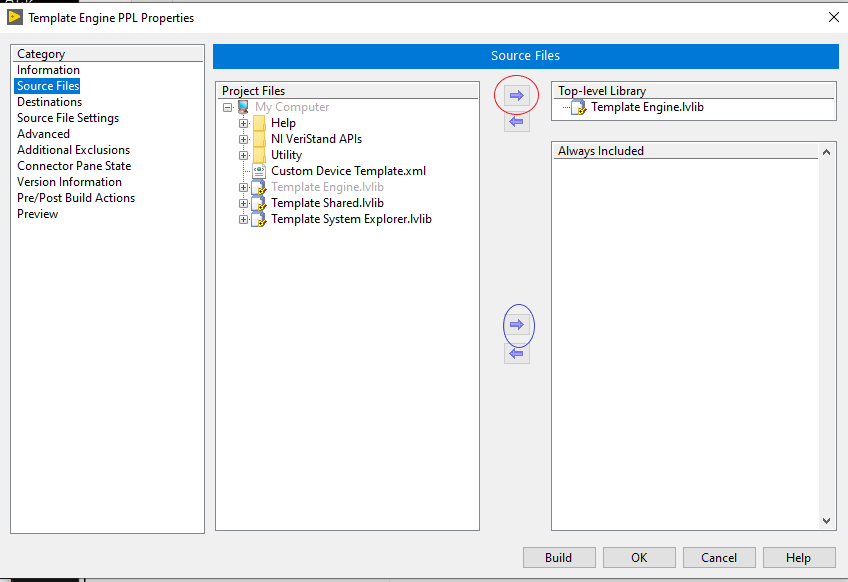
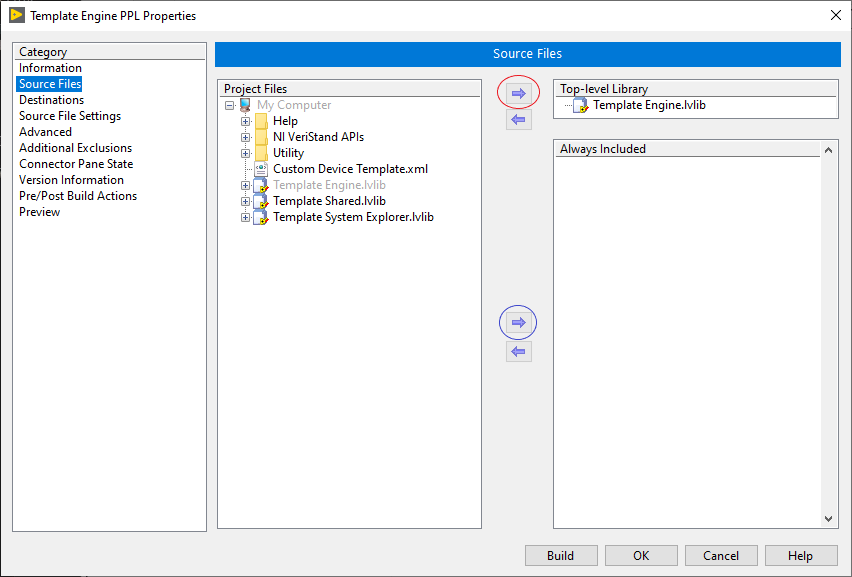
Changes

Changed region(s): [[0.0, 0.0, 1.0, 1.0], [0.5825, 0.5303, 0.6439, 0.6239]]

diff --git a/docs/Migrating_LLB_to_a_PPL_based_Custom_Device.md b/docs/Migrating_LLB_to_a_PPL_based_Custom_Device.md
@@ -1,35 +1,34 @@
-## Migrating a Custom Device from LLB to PPL
+## Migrating from LLB to PPL
 
-First introduced with LabVIEW 2010, a packed project library is a compiled .lvlib that contains all of the .lvlib’s VIs and allows the user to call the public VIs in a manner that is identical to the use of the original .lvlib. Since 
-LabVIEW 2017 you can compile a packed project library to be also used with newer versions of LabVIEW. This option is enabled by default, but if you want to change that setting, choose "Advanced" in the sidebar and disable the option "Allow future versions of LabVIEW" to load this packed library. 
-Using PPLs for packaging VeriStand Custom Devices does not eliminate the usage of LLBs for the same purpose. A developer does not have to chose between using one or another. The two options can coexist as part of the same project. A developer can keep the existing LLB build specifications and simply add to the project the additional PPL ones. Of course, it might be necessary to modify the CD source code in order to be able to support both options - this will be discussed below. The XML configuration file would have to be modified as well to reflect the new loading paths for the CD elements. 
+First introduced with LabVIEW 2010, a packed project library (PPL) is a compiled LabVIEW project library (.lvlib) that contains all of the .project library VIs and allows the user to call the public VIs in a manner that is identical to the use of the original .project library. Since LabVIEW 2017 you can compile a packed project library to be also used with newer versions of LabVIEW. This option is enabled by default, but if you want to change that setting, choose "Advanced" in the sidebar and disable the option "Allow future versions of LabVIEW" to load this packed library. 
 
-### Advantages of using PPL based Custom Devices
+Using PPLs for packaging VeriStand Custom Devices does not eliminate the usage of LLBs for the same purpose. A developer does not have to chose between using one or another. The two options can coexist as part of the same project. A developer can keep the existing LLB build specifications and simply add to the project the additional PPL ones. Of course, it might be necessary to modify the CD source code in order to be able to support both options. The XML configuration file would have to be modified as well to reflect the new loading paths for the CD elements.
+
+### Benefits for using PPL based Custom Devices
 
 Packed Project Libraries (PPL) provide name spacing for all of its contained items and preserve the file hierarchy of the source project library. These features result in several potential benefits for a Custom Device packed in a PPL:
-* Even if two given custom devices would reference the same file (VI) dependency, by packaging them into PPLs, each custom device would receive its own copy of the required dependency. This would be compiled and included in its respective PPL via name spacing for the contained items, the PPLs would also make sure that load-time conflicts are avoided.
+* If two given custom devices would reference the same VI dependency, by packaging them into PPLs, each custom device would receive its own copy of the required dependency. This would be compiled and included in its respective PPL via namespacing for the contained items. The PPLs would also make sure that load-time conflicts are avoided.
 
 * Since PPLs preserve the file hierarchy of the source project library, that solves the issue of internal naming conflicts, which is specific to LLBs (which causes compile-time warnings and extra files to be generated). Multiple LabVIEW project libraries can be included in the same PPL, even if those contain items with the same name. This is the same reason why LabVIEW classes could now be easier used when building VeriStand Custom Devices.
 
-* Much smaller disk footprint, which is important for a lot of our customers, since it would have a large impact on the deployment time (as you can see for the FPGA Addon below). 
+* Much smaller disk footprint, which would improve the deployment time (as you can see for the FPGA Addon below). . 
 
 ![](images/Disk_Footprint.jpg)
-### Drawbacks of using Packed Project Libraries with VeriStand Custom Devices
+### Drawbacks of using PPL based Custom Devices
 
-* Probably one of the main issues is that inside the PPL, relative paths for the items are maintained starting from the most common directory on the disk. This can be confusing for LabVIEW developers that would expect the relative paths to start from the root of the library and follow the original project structure. Additionally, it also means that changing the organization, or location on the disk, of the items that are included in the library build specification could in turn affect the relative paths of the items in the packed library. In time, this behavior could prove to be quite a challenge (or at least a nuisance), since changes within the custom device folder structure could affect the organization of the items in the generated packed library. In turn, this would create the need to constantly update the configuration XML file with the new paths. The long-term solution to this issue would be to create a post-build step that could perform these operations automatically: i.e. parse the configuration XML file and identify the items with "path" properties. For each item, find the corresponding element within the generated packed library and update the configuration file. Once the update is complete (and with no errors), copy the resulting files to the VeriStand Custom Device directory. Certain LabVIEW features are not compatible with packed project libraries. For instance, malleable VIs (VIMs) cannot be included in a PPL and exported as public members, they can only be set with private scope. Implicitly, if a custom device code makes use of malleable VIs, packing it inside a PPL would require some changes (to either the code or the project level) to maintain compatibility.
+* One of the main drawback is that inside the PPL, relative paths for the items are maintained starting from the most common directory on disk. This can be confusing for LabVIEW developers that would expect the relative paths to start from the root of the library and follow the original project structure. Additionally, it also means that changing the organization, or location on disk, of the items that are included in the library build specification could in turn affect the relative paths of the items in the packed library. In time, this behavior could prove to be quite a challenge (or at least a nuisance), since changes within the custom device folder structure could affect the organization of the items in the generated packed library. In turn, this would create the need to constantly update the configuration XML file with the new paths. The long-term solution to this issue would be to create a post-build step that could perform these operations automatically: i.e. parse the configuration XML file and identify the items with "path" properties. For each item, find the corresponding element within the generated packed library and update the configuration file. Once the update is complete (and with no errors), copy the resulting files to the VeriStand Custom Device directory.
+* Certain LabVIEW features are not compatible with packed project libraries. For instance, malleable VIs (VIMs) cannot be included in a PPL and exported as public members, they can only be set with private scope. Implicitly, if a custom device code makes use of malleable VIs, packing it inside a PPL would require some changes (to either the code or the project level) to maintain compatibility.
 
-* Certain VeriStand Custom Device APIs (like the NI VeriStand Custom Device Channel APIs) are using the Global Data References 
+* Certain VeriStand Custom Device APIs (like the NI VeriStand Custom Device Channel APIs) are using Global Data References. 
 
-* Mutation code might be required for individual custom devices if custom data types (for instance, clusters) are used internally and stored within the System Definition file, if we want to ensure backwards compatibility. 
 ### Implementing a PPL based Custom Device
 
-For creating a new packed project library based Custom Device you will begin by building a template project. You can find the necessary template here: [VeriStand Custom Device Wizard](https://github.com/ni/niveristand-custom-device-wizard/releases). The new template will be available starting with VeriStand 2021 (Custom Device Wizard LabView 2021 support 21.0). 
-### Migrating an existing Custom Device
+For creating a new packed project library based Custom Device you can start from a Custom Device template project. You can choose one for your application from the [VeriStand Custom Device Wizard](https://github.com/ni/niveristand-custom-device-wizard/releases). 
+### Migrating to a PPL based Custom Device from an LLB one
 
-First step for migrating an existing Custom Device is to make some changes regarding the global data references if you use certain VeriStand Custom Device APIs.
-For performance reasons, channel values are stored in VeriStand as a single block of data - i.e. as an array of double values. To be able to access a value element corresponding to a given channel, VeriStand is using Global Variables to pass pointer information, from the engine, to the calling APIs. While this works well for custom devices packed in LLBs, the same does not apply for packed project libraries, due to namespacing. Essentially, when compiling a PPL, a separate (namespaced) copy of the global variable is created and included with it. In turn, it cannot be used anymore for data transfer between the VeriStand engine and the running custom device and would result in a runtime error. Custom devices that do not use this kind of APIs are not affected by this issue. For instance, mainly Inline custom devices ( and derivatives of this type) are affected, since custom devices of Async type are using RT FIFOs to access channel values.
-To be able to mitigate this problem, we need to implement an  alternative way to access the values within these global variables. 
-This code needs to be incapsulated within a single VI ("Initialize Global Variables"). It has to be called only once from within the target custom device and, for an Inline type, it would have to be called specifically in the "Read Data from HW" state of the "RT Driver" due to the specifics of the initialization of the VeriStand engine.
+If you use certain VeriStand Custom Device APIs, which is the case for an inline custom device, the first step to migrate an existing Custom Device would include changes regarding how the global data references are initialized.
+For performance reasons, channel values are stored in VeriStand as a single block of data - i.e. as an array of double values. To be able to access a value element corresponding to a given channel, VeriStand is using Global Variables to pass pointer information, from the engine, to the calling APIs. While this works well for custom devices packed in LLBs, the same does not apply for packed project libraries, due to namespacing. Essentially, when compiling a PPL, a separate (namespaced) copy of the global variable is created and included with it. In turn, it cannot be used anymore for data transfer between the VeriStand engine and the running custom device and would result in a runtime error. To be able to mitigate this problem, we need to implement an alternative way to access the values within these global variables.
+The initialization code below needs to be incapsulated within a subVI ("Initialize Global Variables"). It has to be called only once from within the target custom device and, for an Inline type, it would have to be called specifically in the "Read Data from HW" case of the "RT Driver" due to how the VeriStand engine initializes.
 
 ![](images/GlobalVariableINIT.PNG)
 
@@ -39,7 +38,7 @@ The next step is to create a packed project library for each LLB you have in the
 
 ![](images/BuildSpecification2.PNG)
 
-The window for configurating your packed library will open. 
+The window for configuring your packed library will open. 
 * You need to select **Source Files** in the left menu. You will have a list with all the LLBs in your project and you need to select one for which you want to copy the configuration. After you select it you will need to press the top blue arrow (the one circled in RED).
 
 **Note:** if you need an LLB configuration to be included in one PPL, Select the LLB you want to include and Press the bottom blue arrow (the one circled in BLUE).
@@ -51,24 +50,24 @@ The window for configurating your packed library will open.
 
 ![](images/PPL_Config_Info.PNG)
 
-* Press **Done** and you should see this window: 
+* Press **Build** and you should see this window after the build finishes:  
 
 ![](images/ppl_done.PNG)
 
 After you are done check if you have a PPL for each LLB. 
 
-**Note:** You should be carefull to configure PPLs for the targets too.
+**Note:** You should configure PPLs also for the Real Time targets build specifications.
 
-The last step is to make the necessary changes in the XML file. For this you will need to change the path for each LLB with the path of each coresponding PPL.
-For example, the following image represents  the XML code sequence for the custom device RT Driver VI on a Windows target. 
+The last step is to make the necessary changes in the XML file. For this you will need to change the path for each LLB with the path of each corresponding PPL.
+For example, the following image represents the XML code sequence for the custom device RT Driver VI on a Windows target. 
 
 ![](images/XML_Engine_Path_LLB.PNG)
 
-You need to change what comes after the **Path** tag.
+You need to change what comes after the `&lt;Path&gt;` tag.
 
 ![](images/XML_Engine_Path_PPL.PNG)
 
-Here you can see the Path is changed to the one that the PPL has. You need to do the same for every **Path** tag in the XML.
+Here you can see the `&lt;Path&gt;` contains a path for a VI located inside a PPL. You need to update all the `&lt;Path&gt;` tags in the XML that reference VIs inside the newly created PPLs.
 
-**Note:** Do not forget about the Real Time destination.
+**Note:** You need to update also the `&lt;RealTimeSystemDestination&gt;` tags.
 
